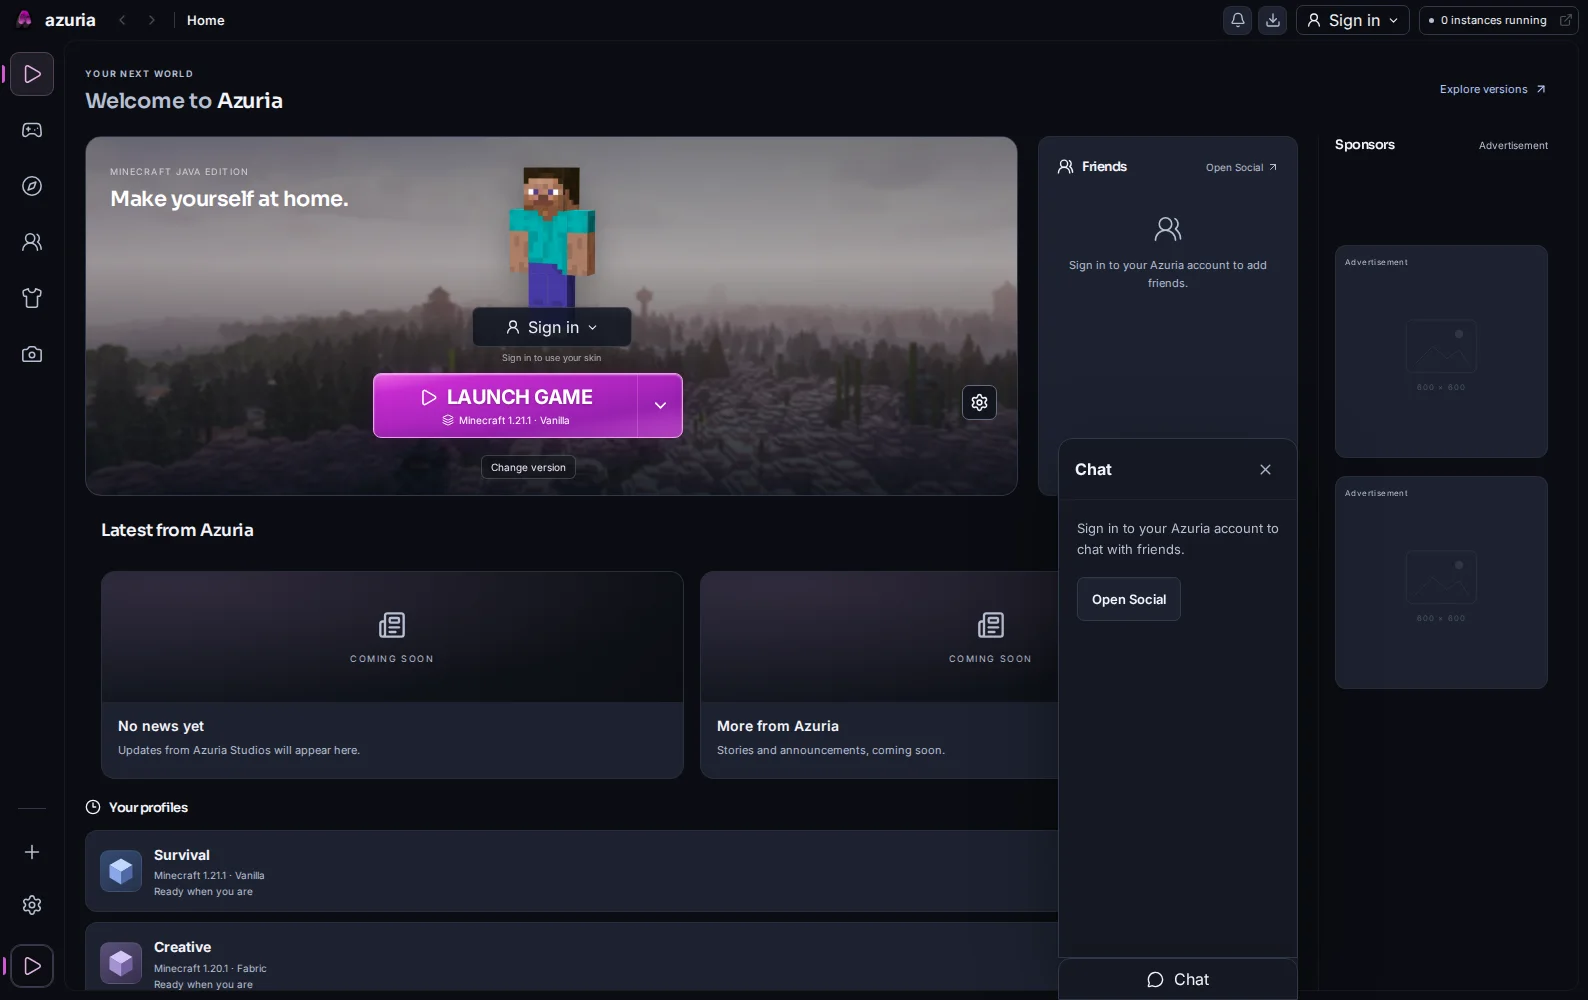
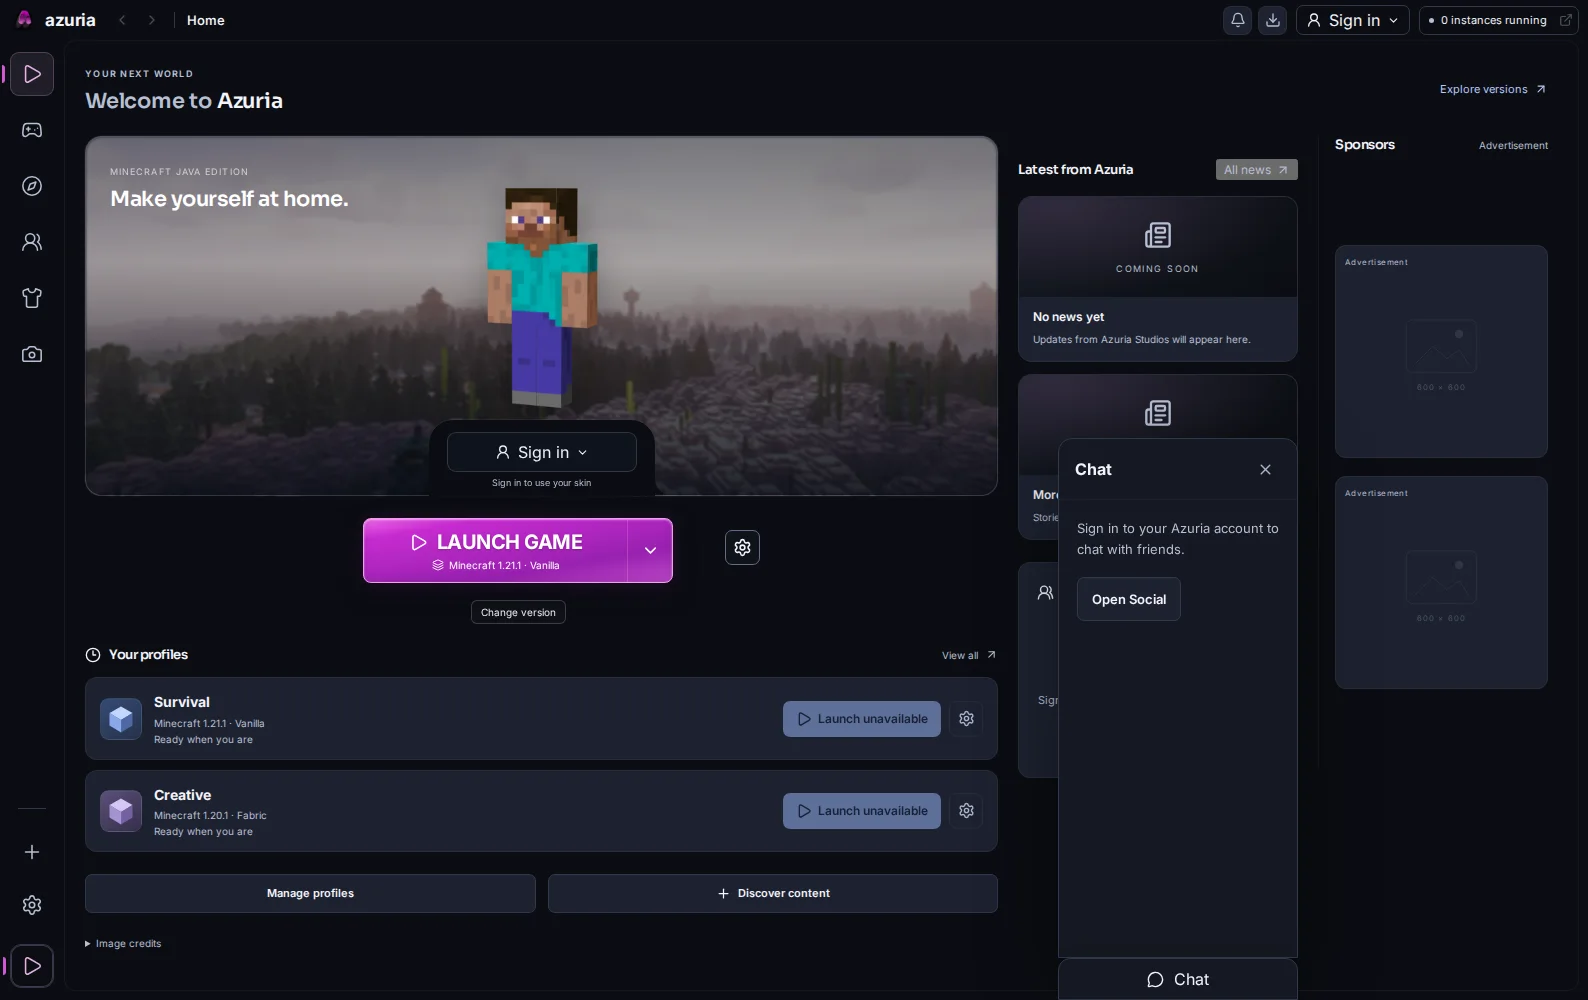
Restore Home columns and inset the player account into the scene

Changed region(s): [[0.0309, 0.124, 0.8331, 0.992], [0.4937, 0.372, 0.5246, 0.403]]

diff --git a/apps/app-frontend/src/views/home.css b/apps/app-frontend/src/views/home.css
@@ -480,195 +480,114 @@
   margin-top: 12px;
 }
 
-/* Wide player stage; square sponsor artwork is centred in its own rail. */
+/* Home keeps profiles beneath the scene and news above Friends. */
 .home-dashboard {
-  grid-template-columns: minmax(0, 1fr) 230px;
-}
-.home-primary {
-  grid-column: 1;
-  grid-row: 1 / span 2;
-}
-.home-secondary {
-  grid-column: 2;
-  grid-row: 2;
-  display: block;
-}
-.home-secondary :deep(.community-sidebar) {
-  display: none;
-}
-.home-sponsor-rail {
-  grid-column: 2;
-  grid-row: 1;
-  align-self: stretch;
-}
-.home-sponsor-rail :deep(.community-ads) {
-  align-items: center;
-  justify-content: center;
-  min-height: 600px;
-}
-.home-sponsor-rail :deep(.square-ad) {
-  width: 100%;
-  max-width: 600px;
-  aspect-ratio: 1;
-}
-.player-home .player-scene {
-  height: auto;
-  min-height: 360px;
-  aspect-ratio: 8/3;
-}
-.hero-character {
-  top: 25px;
-  height: 220px;
-}
-.hero-character :deep(.skin-model-stage) {
-  height: 220px;
-  transform: scale(1.2);
-}
-.player-account {
-  top: auto;
-  bottom: 112px;
-}
-.home-primary :deep(.home-news-grid) {
-  display: grid;
-  grid-template-columns: repeat(2, minmax(0, 1fr));
-}
-.home-primary :deep(.home-news-card) {
-  min-width: 0;
-}
-@media (min-width: 1450px) {
-  .player-home .player-scene {
-    min-height: 410px;
-  }
-  .hero-character {
-    top: 45px;
-  }
-  .hero-character :deep(.skin-model-stage) {
-    transform: scale(1.45);
-  }
-}
-@media (max-width: 1100px) {
-  .home-dashboard {
-    grid-template-columns: minmax(0, 1fr) 180px;
-  }
-  .home-sponsor-rail {
-    grid-column: 2;
-    grid-row: 1;
-  }
-  .home-secondary {
-    grid-column: 2;
-    grid-row: 2;
-  }
-  .home-primary {
-    grid-column: 1;
-    grid-row: 1 / span 2;
-  }
-}
-@media (max-width: 760px) {
-  .home-dashboard {
-    display: flex;
-    flex-direction: column;
-  }
-  .home-sponsor-rail {
-    width: 100%;
-  }
-  .home-sponsor-rail :deep(.community-ads) {
-    min-height: 0;
-  }
-  .home-primary {
-    width: 100%;
-  }
-}
-.home-dashboard {
-  grid-template-columns: minmax(0, 1fr) 260px 230px;
+  grid-template-columns: minmax(0, 1fr) 280px 230px;
   gap: 20px;
 }
 .home-primary {
-  display: contents;
+  display: flex;
+  flex-direction: column;
+  gap: 22px;
 }
 .player-home .player-scene {
-  grid-column: 1;
-  grid-row: 1;
+  height: 360px;
   min-height: 360px;
+  overflow: visible;
+  isolation: isolate;
 }
-.home-primary > :not(.player-scene) {
-  grid-column: 1 / span 2;
+.player-home .home-scenery {
+  border-radius: 16px;
+  inset: 0;
+  width: 100%;
+  height: 100%;
+  transform: none;
 }
-.home-primary > :deep(.home-news) {
-  grid-row: 2;
-}
-.home-secondary {
-  grid-column: 2;
-  grid-row: 1;
-  display: block;
-}
-.home-secondary :deep(.community-sidebar) {
-  display: block;
-  min-height: 360px;
-}
-.home-sponsor-rail {
-  grid-column: 3;
-  grid-row: 1 / span 6;
-}
-.home-sponsor-rail :deep(.community-ads) {
-  min-height: 600px;
-  justify-content: center;
-}
-@media (max-width: 1300px) {
-  .home-dashboard {
-    grid-template-columns: minmax(0, 1fr) 220px 180px;
-    gap: 16px;
-  }
-  .home-sponsor-rail {
-    padding-left: 12px;
-  }
-}
-@media (max-width: 1100px) {
-  .home-dashboard {
-    grid-template-columns: minmax(0, 1fr) 180px;
-  }
-  .player-home .player-scene {
-    grid-column: 1;
-  }
-  .home-primary > :not(.player-scene) {
-    grid-column: 1;
-  }
-  .home-secondary {
-    grid-column: 1;
-    grid-row: auto;
-  }
-  .home-secondary :deep(.community-sidebar) {
-    min-height: 0;
-  }
-  .home-sponsor-rail {
-    grid-column: 2;
-    grid-row: 1 / span 8;
-  }
-}
-@media (max-width: 760px) {
-  .home-dashboard {
-    display: flex;
-  }
-  .home-primary {
-    display: contents;
-  }
-  .home-secondary {
-    width: 100%;
-  }
-}
-
-.player-account {
-  bottom: 132px;
+.player-home .player-scene:before {
+  border-radius: 16px;
 }
 .hero-character {
-  top: 25px;
-  height: 180px;
+  top: 40px;
+  height: 240px;
+  width: 240px;
 }
 .hero-character :deep(.skin-model-stage) {
-  height: 180px;
-  transform: scale(1.05);
+  height: 240px;
+  transform: scale(1.35);
 }
-.home-primary :deep(.home-news) {
-  margin: 4px 16px 0;
+.player-account {
+  top: auto;
+  bottom: -1px;
+  background: var(--bg);
+  border-radius: 24px 24px 0 0;
+  padding: 12px 18px 8px;
+  gap: 5px;
+  min-width: 220px;
+  box-shadow: 0 -1px 0 var(--border);
+}
+.player-account:before,
+.player-account:after {
+  content: "";
+  position: absolute;
+  bottom: 1px;
+  width: 16px;
+  height: 16px;
+  background: transparent;
+}
+.player-account:before {
+  left: -16px;
+  border-radius: 0 0 16px 0;
+  box-shadow: 8px 0 0 var(--bg);
+}
+.player-account:after {
+  right: -16px;
+  border-radius: 0 0 0 16px;
+  box-shadow: -8px 0 0 var(--bg);
+}
+.player-account :deep(.topbar-account) {
+  min-width: 190px;
+  border-radius: 9px;
+}
+.player-account small {
+  color: var(--muted);
+}
+.hero-launch-bar {
+  position: relative;
+  inset: auto;
+  min-height: 90px;
+  justify-content: center;
+  align-items: flex-start;
+  padding: 0 12px;
+  gap: 12px;
+}
+.hero-launch-bar :deep(.quick-launch) {
+  width: min(100%, 390px);
+  flex: 0 1 390px;
+}
+.home-secondary {
+  display: flex;
+  flex-direction: column;
+  gap: 22px;
+}
+.home-secondary :deep(.news-placeholder-grid) {
+  display: grid;
+  grid-template-columns: minmax(0, 1fr);
+  gap: 12px;
+}
+.home-secondary :deep(.news-placeholder-art) {
+  height: 100px;
+}
+.home-secondary :deep(.news-placeholder h3) {
+  font-size: 12px;
+  margin: 12px 14px 7px;
+}
+.home-secondary :deep(.news-placeholder p) {
+  font-size: 10px;
+  margin: 0 14px 14px;
+}
+.home-secondary :deep(.community-sidebar) {
+  height: auto;
+  min-height: 0;
 }
 .home-sponsor-rail :deep(.community-ads) {
   display: flex;
@@ -676,4 +595,74 @@
   gap: 18px;
   margin: 0;
   min-height: 600px;
+  justify-content: center;
+}
+.home-sponsor-rail :deep(.square-ad) {
+  width: 100%;
+  max-width: 600px;
+  aspect-ratio: 1;
+}
+@media (max-width: 1300px) {
+  .home-dashboard {
+    grid-template-columns: minmax(0, 1fr) 230px 180px;
+    gap: 16px;
+  }
+  .home-sponsor-rail {
+    padding-left: 12px;
+  }
+  .player-scene-heading h2 {
+    font-size: 18px;
+  }
+}
+@media (max-width: 1100px) {
+  .home-dashboard {
+    grid-template-columns: minmax(0, 1fr) 180px;
+  }
+  .home-primary {
+    grid-column: 1;
+    grid-row: 1;
+  }
+  .home-secondary {
+    grid-column: 1;
+    grid-row: 2;
+    display: grid;
+    grid-template-columns: repeat(2, minmax(0, 1fr));
+  }
+  .home-sponsor-rail {
+    grid-column: 2;
+    grid-row: 1 / span 2;
+  }
+  .hero-character {
+    top: 35px;
+  }
+}
+@media (max-width: 760px) {
+  .home-dashboard {
+    display: flex;
+    flex-direction: column;
+  }
+  .home-primary,
+  .home-secondary,
+  .home-sponsor-rail {
+    width: 100%;
+  }
+  .home-secondary {
+    display: flex;
+  }
+  .home-sponsor-rail :deep(.community-ads) {
+    min-height: 0;
+    display: grid;
+    grid-template-columns: repeat(2, minmax(0, 1fr));
+  }
+}
+.home-secondary :deep(.community-sidebar),
+.home-secondary :deep(.friends-placeholder) {
+  width: 100%;
+  min-width: 0;
+  box-sizing: border-box;
+}
+.home-secondary :deep(.friends-placeholder p) {
+  white-space: normal;
+  overflow-wrap: anywhere;
+  max-width: 100%;
 }

diff --git a/apps/app-frontend/src/views/HomeView.vue b/apps/app-frontend/src/views/HomeView.vue
@@ -146,9 +146,8 @@ function played(id: string) {
                   : "Sign in to use your skin"
             }}</small>
           </div>
-          <div class="hero-launch-bar"><QuickLaunch /><HeroSettingsMenu /></div>
         </section>
-        <NewsFeed />
+        <div class="hero-launch-bar"><QuickLaunch /><HeroSettingsMenu /></div>
         <section class="home-profiles" aria-labelledby="home-profiles-heading">
           <div class="home-section-heading">
             <h2 id="home-profiles-heading">
@@ -257,7 +256,7 @@ function played(id: string) {
         </details>
       </div>
       <aside class="home-secondary" aria-label="News and friends">
-        <CommunitySidebar friends-only />
+        <NewsFeed /><CommunitySidebar friends-only />
       </aside>
       <aside class="home-sponsor-rail" aria-label="Home advertisements">
         <div class="home-section-heading">

diff --git a/docs/previews/README.md b/docs/previews/README.md
@@ -2,7 +2,7 @@
 
 Captured from the implemented Vue app at 1588 × 1000. The browser preview uses two sample local profiles; Minecraft launching is unavailable outside the Windows app. News, sponsor and Friends empty states are intentional. Steve is the labelled default preview.
 
-- `home-player.webp`: Home with 1600 × 600 scenery, two news placeholders, Friends and two square ad slots.
+- `home-player.webp`: Home with 1600 × 600 scenery, an inset account button, profiles below, news above Friends and two square ad slots.
 - `review-profiles.webp`: profile cards with Minecraft artwork.
 - `review-new-profile.webp`: one-page loader and version setup.
 - `review-wardrobe.webp`: unavailable cosmetics clearly marked coming soon.
